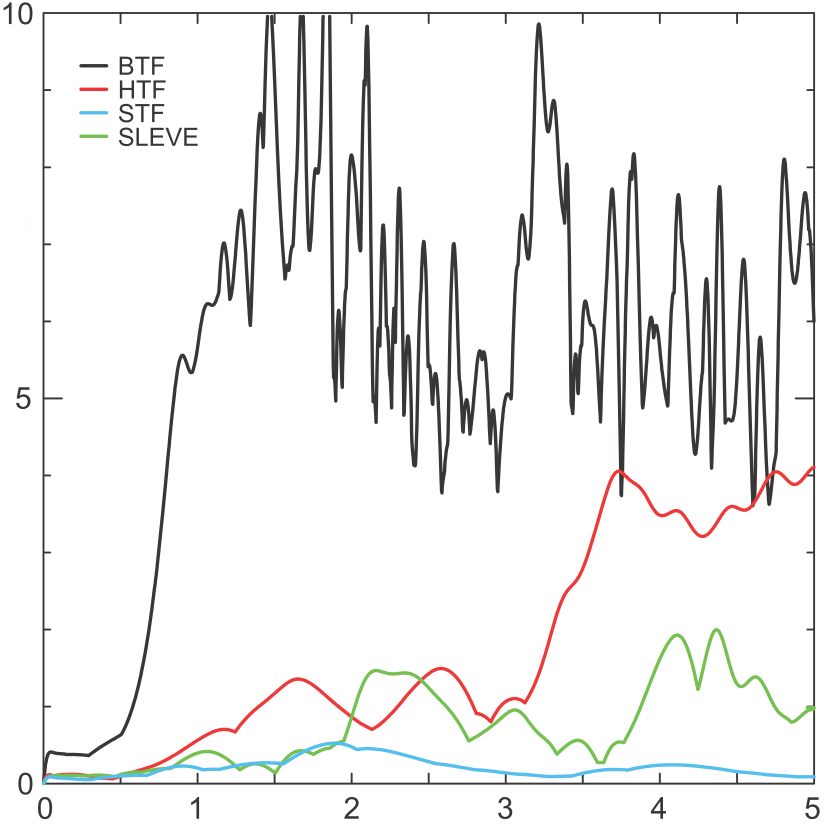
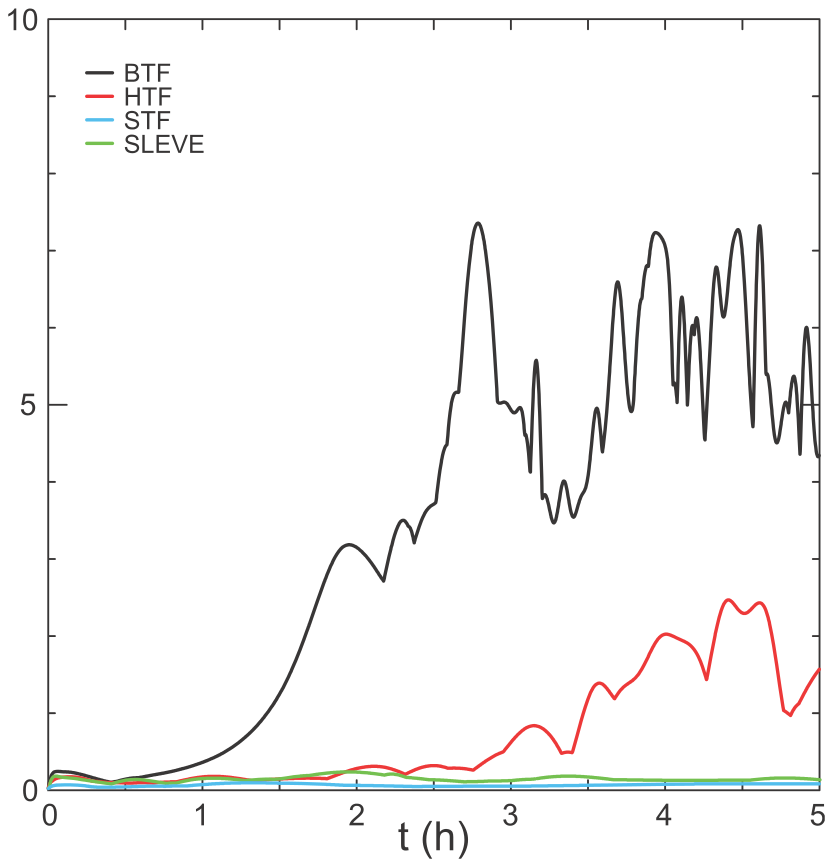
more corrections from John, swap Klemp2011 fig2 for fig4

diff --git a/msc-publication.tex b/msc-publication.tex
@@ -178,7 +178,7 @@ where $\varphi$ is the numerical tracer value, $\varphi_T$ is the analytic value
 
 For the cubic upwind-biased scheme, error is largest on the BTF grid with \(\ell^2 = \num{0.00767}\) but significant reduced on the SLEVE grid with \(\ell^2 = \num{0.00108}\).  The error is approximately halved by changing from the SLEVE grid to the cut cell grid.
 
-The results of the tracer advection test show that, given an advection scheme of a sufficiently high order, distortions in the grid do not significantly distort the tracer.
+The results of the tracer advection test show that numerical errors are due to misalignment of the flow with the grid.  Given an advection scheme of a sufficiently high order, distortions in the grid do not significantly distort the tracer.
 
 \begin{figure}
 	\centering
@@ -215,10 +215,12 @@ The horizontal and vertical components of velocity, $u$ and $w$, are then given 
 Unlike the horizontal advection test, flow extends from the top of the domain all the way to the ground.  The discrete velocity field is calculated using the streamfunction in the same way as the horizontal advection test.
 
 At $t = \SI{10000}{\second}$ the tracer has passed over the mountain.  The horizontal position of the tracer centre can be calculated by integrating along the trajectory to find $t$, the time taken to pass from one side of the mountain to the other:
-\begin{multline}
-t = \frac{x}{u_0} - \frac{h_0}{16 u_0 H} \left[ 4x + \frac{\sin 2 (\alpha + \beta) x}{\alpha + \beta} \right.+ \\
-\left. \frac{\sin 2(\alpha - \beta) x}{\alpha - \beta} + 2 \left( \frac{\sin 2\alpha x}{\alpha} + \frac{\sin 2\beta x}{\beta} \right) \right]
-\end{multline}
+\begin{align}
+	\mathrm{d}t &= \mathrm{d}x / u(x) \\
+	t &= \int_0^x \frac{H - h(x)}{u_0 H}\:\mathrm{d}x \\
+	t &= \frac{x}{u_0} - \frac{h_0}{16 u_0 H} \left[ 4x + \frac{\sin 2 (\alpha + \beta) x}{\alpha + \beta} \right.+ \nonumber \\
+   &\ \left. \frac{\sin 2(\alpha - \beta) x}{\alpha - \beta} + 2 \left( \frac{\sin 2\alpha x}{\alpha} + \frac{\sin 2\beta x}{\beta} \right) \right]
+\end{align}
 Hence, we find that \(x(t=\SI{10000}{\second}) = \SI{51577.4}{\meter}\).  Because the velocity field is non-divergent, the flow accelerates over mountain ridges and the tracer travels \SI{1577.4}{\meter} further compared to advection in the purely horizontal velocity field.  Tracer height is unchanged downwind of the mountains because advection is along the terrain following coordinate surface.
 
 \begin{table*}[t]
@@ -227,7 +229,7 @@ Hence, we find that \(x(t=\SI{10000}{\second}) = \SI{51577.4}{\meter}\).  Becaus
 %
 \centering
 \footnotesize
-\begin{tabular}{ r @{\hspace{0.5em}} l l l @{\hspace{0.2em}} l l l @{\hspace{0.5em}} l l l @{\hspace{0.2em}} l l l}
+\begin{tabular}{ r @{\hspace{0.5em}} l l l | @{\hspace{0.2em}} l l l | @{\hspace{0.5em}} l l l | @{\hspace{0.2em}} l l l}
 \hline\hline
 & \multicolumn{6}{c}{Horizontal advection} & \multicolumn{6}{c}{Terrain following advection} \\
 & \multicolumn{3}{c}{Centred linear} & \multicolumn{3}{c}{Cubic upwind-biased} & \multicolumn{3}{c}{Centred linear} & \multicolumn{3}{c}{Cubic upwind-biased} \\
@@ -237,14 +239,14 @@ Analytic  & 0 & 0 & 1 & 0 & 0 & 1 & 0 & 0 & 1 & 0 & 0 & 1 \\
 BTF 	  & \num{0.0318} & \num{-0.442} & \num{0.849} & \num{0.00767} & \num{-0.0433} & \num{0.928} & \num{0.00251} & \num{-0.0244} & \num{0.985} & \num{0.00154} & \num{-0.0105} & \num{0.983} \\
 SLEVE 	  & \num{0.00233} & \num{-0.0253} & \num{0.945} & \num{0.00108} & \num{-0.0106} & \num{0.981} & \num{0.0298} & \num{-0.258} & \num{0.865} & \num{0.0122} & \num{-0.0273} & \num{0.864} \\
 Cut cell  & \num{0.00224} & \num{-0.0253} & \num{0.985} & \num{0.000579} & \num{-0.00670} & \num{0.982} & \num{0.0318} & \num{-0.270} & \num{0.846} & \num{0.0136} & \num{-0.0297} & \num{0.850} \\
-No terrain & \num{0.00224} & \num{-0.0253} & \num{0.985} & \num{0.000577} & \num{-0.00670} & \num{0.982} & \multicolumn{1}{c}{---} & \multicolumn{1}{c}{---} & \multicolumn{1}{c}{---} & \multicolumn{1}{c}{---} & \multicolumn{1}{c}{---} & \multicolumn{1}{c}{---} \\
+No terrain & \num{0.00224} & \num{-0.0253} & \num{0.985} & \num{0.000577} & \num{-0.00670} & \num{0.982} & \multicolumn{1}{c}{---} & \multicolumn{1}{c}{---} & {---} & \multicolumn{1}{c}{---} & \multicolumn{1}{c}{---} & \multicolumn{1}{c}{---} \\
 \hline
 \end{tabular}
 \end{table*}
 
 $\ell^2$ errors and tracer extrema for this test are compared with the horizontal advection results in table~\ref{tab:advection}.  In the terrain following velocity field, tracer accuracy is greatest on the BTF grid.  Using the cubic upwind-biased scheme, errors are about ten times larger on the SLEVE and cut cell grids compared to the BTF grid.
 
-We conclude from this test that accuracy depends upon alignment of the flow with the grid, and accuracy is not significantly reduced by grid distortions.  Error on the BTF grid is comparable with the error on the SLEVE grid in the horizontal advection test.
+We conclude from this test that accuracy depends upon alignment of the flow with the grid, and accuracy is not significantly reduced by grid distortions.  Error on the BTF grid in the terrain following advection test is comparable with the error on the SLEVE grid in the horizontal advection test.
 
 \subsection{Stratified atmosphere initially at rest}
 \label{sec:resting}
@@ -263,9 +265,9 @@ h_1(x) = \frac{1}{2} h_0 \exp \left( - \left( \frac{x}{a} \right)^2 \right)
 \end{align}
 and, following \cite{leuenberger2010}, $s_1 = \SI{4}{\kilo\meter}$ is the large scale height, $s_2 = \SI{1}{\kilo\meter}$ is the small scale height, and the optimal exponent value of $n = 1.35$ is used.
 
-The initial thermodynamic conditions are in discrete hydrostatic balance, having a surface temperature of $\theta_0 = \SI{288}{\kelvin}$ and constant stability with Brunt-V\"ais\"al\"a frequency $N = \SI{0.01}{\per\second}$ everywhere, except for a more stable layer of $N = \SI{0.02}{\per\second}$ between $\SI{2}{\kilo\meter} \leq z \leq \SI{3}{\kilo\meter}$.  Unlike \citet{klemp2011}, there is no eddy diffusion in the equation set.
+The initial thermodynamic conditions are in discrete hydrostatic balance, having a reference potential temperature of $\theta(z = 0) = \SI{288}{\kelvin}$ and constant stability with Brunt-V\"ais\"al\"a frequency $N = \SI{0.01}{\per\second}$ everywhere, except for a more stable layer of $N = \SI{0.02}{\per\second}$ between $\SI{2}{\kilo\meter} \leq z \leq \SI{3}{\kilo\meter}$.  Unlike \citet{klemp2011}, there is no eddy diffusion in the equation set.
 
-The test was integrated forward by 5 hours on the BTF, SLEVE and cut cell grids, and a regular grid with flat terrain.  Maximum vertical velocities are compared with the results from \citet{klemp2011} in figure~\ref{fig:resting} (note different vertical scales).  In agreement with \citet{klemp2011}, vertical velocities are larger on more distorted grids.  However, magnitudes are smaller comparing results on the terrain following grids with those from \citet{klemp2011}, with $w$ reaching a maximum of \(\sim \SI{0.35}{\meter\per\second}\) on the BTF grid in our test compared with a maximum of \(\sim \SI{10}{\meter\per\second}\) found by \citet{klemp2011} \TODO{NO, compare with Klemp's improved results}.
+The test was integrated forward by 5 hours on the BTF, SLEVE and cut cell grids, and a regular grid with flat terrain.  Maximum vertical velocities are compared with the results from \citet{klemp2011} in figure~\ref{fig:resting} (note different vertical scales).  In agreement with \citet{klemp2011}, vertical velocities are larger on more distorted grids.  However, magnitudes are smaller comparing results on the terrain following grids with those from \citet{klemp2011}.  Using the model from \citet{weller-shahrokhi2014}, which includes a curl-free pressure gradient formulation, $w$ reaches a maximum of \(\sim \SI{0.35}{\meter\per\second}\) on the BTF grid, compared with a maximum of \(\sim \SI{7}{\meter\per\second}\) found by \citet{klemp2011} using their improved horizontal pressure gradient formulation.
 
 Unlike the result from \citet{klemp2011}, the SLEVE grid does not significantly reduce vertical velocities compared to the BTF grid.  However, errors are three orders of magnitude smaller on the cut cell grid with vertical velocities of \(\sim \SI{1e-3}{\meter\per\second}\).  The smallest error of \(\sim \SI{1e-10}{\meter\per\second}\) is found on the regular grid.
 
@@ -277,7 +279,7 @@ In summary, spurious velocities in the resting atmosphere test were similar on b
 	\centering
 	\includegraphics{../msc-publication-fig-resting/fig-resting.pdf}
 %
-	\caption{Maximum spurious vertical velocity, \(w\) (\si{\meter\per\second}), in the resting atmosphere test with results on (a) BTF, SLEVE, Hybrid Terrain Following (HTF) and Smoothed Terrain Following (STF) coordinates from \citet{klemp2011}, (b) BTF, SLEVE, cut cell and regular grids using the model from \citet{weller-shahrokhi2014}.  Note that vertical scales differ.}
+	\caption{Maximum spurious vertical velocity, \(w\) (\si{\meter\per\second}), in the resting atmosphere test with results on (a) BTF, SLEVE, Hybrid Terrain Following (HTF) and Smoothed Terrain Following (STF) coordinates from \citet{klemp2011} using their improved horizontal pressure gradient formulation, (b) BTF, SLEVE, cut cell and regular grids using the model from \citet{weller-shahrokhi2014} which includes a curl-free pressure gradient formulation.  Note that vertical scales differ.}
 	\label{fig:resting}
 \end{figure*}
 
@@ -286,7 +288,7 @@ The test originally specified by \citet{schaer2002} prescribes flow over terrain
 
 Following \citet{melvin2010}, the domain is \SI{300}{\kilo\meter} wide and \SI{30}{\kilo\meter} high.  The mountain profile has the same form as equation~\ref{eqn:resting:mountain}.  Tests are performed with mountain heights of $h_0 = \SI{250}{\meter}$ and \(h_0 = \SI{500}{\meter}\).  As in the resting atmosphere test, $a = \SI{5}{\kilo\meter}$ is the mountain half-width and $\lambda = \SI{4}{\kilo\meter}$ is the wavelength.  On the optimised SLEVE grid, $s_1 = \SI{5}{\kilo\meter}$ is the large scale height, $s_2 = \SI{2}{\kilo\meter}$ is the small scale height and the optimal exponent value $n = 1.35$ is used.
 
-The initial thermodynamic conditions have a surface temperature of $\theta_0 = \SI{288}{\kelvin}$ and constant stability with $N = \SI{0.01}{\per\second}$ everywhere.  A constant horizontal wind $u = \SI{10}{\meter\per\second}$ is prescribed at the inlet boundary.
+The initial thermodynamic conditions have a surface temperature of $\theta(z=0) = \SI{288}{\kelvin}$ and constant stability with $N = \SI{0.01}{\per\second}$ everywhere.  A constant horizontal wind $u = \SI{10}{\meter\per\second}$ is prescribed at the inlet boundary.
 
 Sponge layers are added to the upper \SI{10}{\kilo\meter} and leftmost \SI{10}{\kilo\meter} at the inlet boundary to damp the reflection of waves.
 The term $\mu \rho \bm{u}$ is subtracted from the momentum (equation \ref{eq:momentum}) where the damping function, \(\mu\), is adapted from \citet{melvin2010} such that
@@ -305,7 +307,7 @@ where $\overline{\mu} = 1.2$ is the damping coefficient, $z_B = \SI{20}{\kilo\me
 
 Note that, while the domain itself is \SI{30}{\kilo\meter} in height, for the purposes of generating BTF and SLEVE grids, the domain height is set to \SI{20}{\kilo\meter} because the sponge layer occupies the uppermost \SI{10}{\kilo\meter}.
 
-No normal flow is imposed at the top and bottom boundaries and the outlet is zero gradient.  For Exner, hydrostatic balance is prescribed on all boundaries.  The simulation is integrated forward by 5 hours with a timestep $\Delta t = \SI{8}{\second}$.
+No normal flow is imposed at the top and bottom boundaries and the outlet has a zero gradient boundary condition.  For the Exner function of pressure, hydrostatic balance is prescribed on all boundaries.  The simulation is integrated forward by 5 hours with a timestep $\Delta t = \SI{8}{\second}$.
 
 Test results are compared between the BTF, SLEVE and cut cell grids.  Vertical velocities on the BTF grid are shown in figure~\ref{fig:gw-w}a, which have few visible differences from results on the SLEVE and cut cell grids (not shown).  Vertical velocities on all grids are in agreement with the high resolution solution from \citet{melvin2010}, shown in figure~\ref{fig:gw-w}b.
 

diff --git a/fig-resting.tex b/fig-resting.tex
@@ -10,7 +10,7 @@
 \begin{document}
 \TPMargin{2pt}
 \textblockcolour{white}
-\begin{textblock}{0.5}(0.5,12.3)
+\begin{textblock}{0.5}(0.5,11.5)
 \normalsize
 (a)
 \end{textblock}
